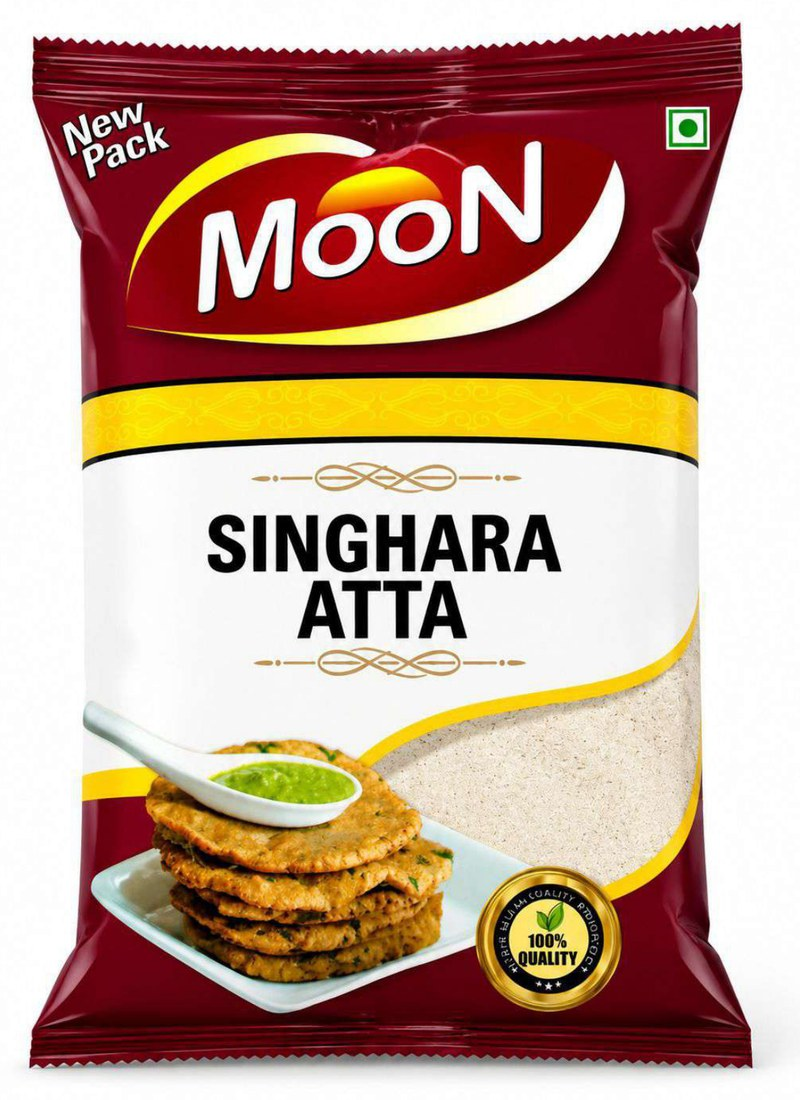
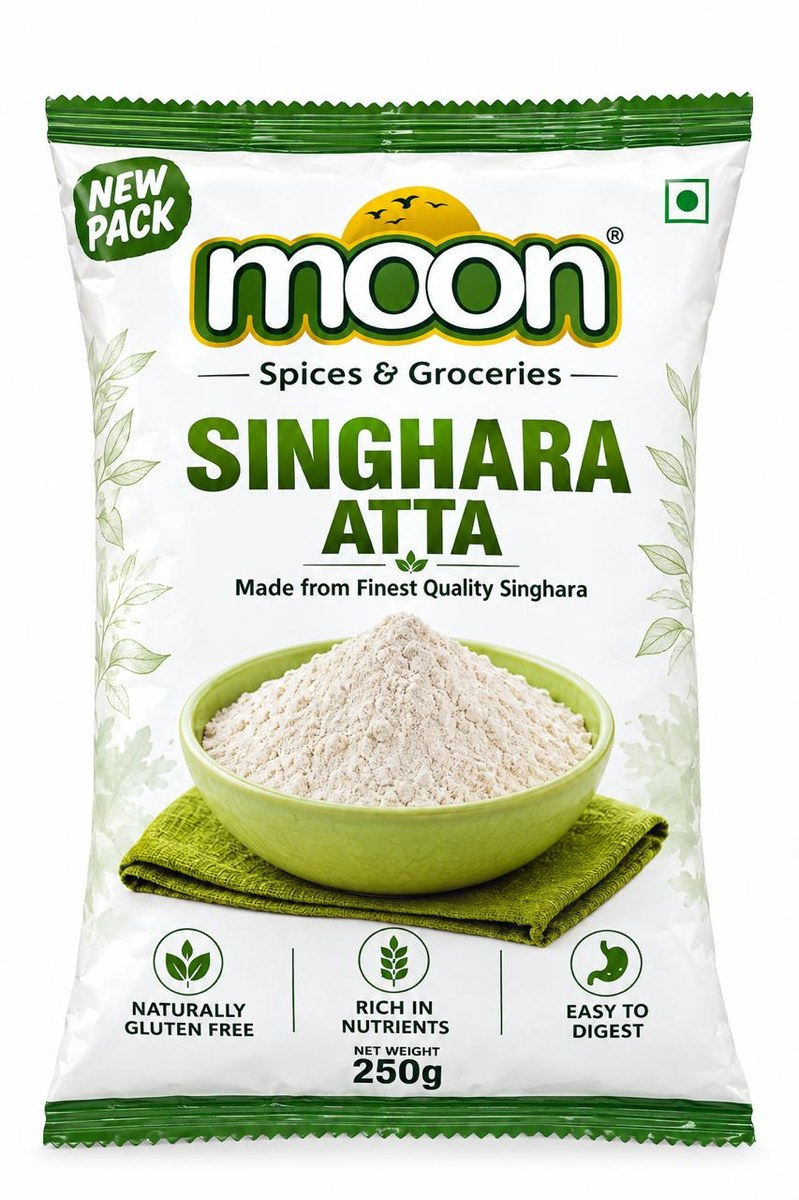
Update Singhara Atta packaging/price, add Dry Figs
- Singhara Atta: replaced with the new pack photo, price updated to
  the real ₹100 (was ₹200).
- Dry Figs: new product, 250g, ₹350, using its real pack photo.

Claude-Session: https://claude.ai/code/session_01VhHhG2872rT9kx7LUMEfYW

diff --git a/moon-shop-preview/src/data.ts b/moon-shop-preview/src/data.ts
@@ -76,6 +76,22 @@ export const PRODUCTS: Product[] = [
     ],
   },
   {
+    id: 'dry-figs',
+    name: 'Dry Figs',
+    category: 'Dry Fruits',
+    description:
+      "Our Dry Figs (Anjeer) are naturally sun-dried to bring out their rich, honeyed sweetness and soft, chewy texture. A wholesome everyday snack, perfect for gifting or adding to your daily diet.",
+    price: 350,
+    weightOptions: ['250g'],
+    image: '/products/dry-figs.jpg',
+    additionalInfo: [
+      'Naturally sweet — no added sugar',
+      'Good source of dietary fibre',
+      'Rich in calcium & potassium',
+      '100% natural, sun-dried',
+    ],
+  },
+  {
     id: 'moon-dry-dates',
     name: 'Moon Dry Fruits Dry Dates',
     category: 'Dry Dates',
@@ -345,7 +361,7 @@ export const PRODUCTS: Product[] = [
     category: 'Speciality Flours',
     description:
       "Our Singhara Atta (water chestnut flour) is ground fresh for a light, delicate texture — a traditional favourite for vrat/fasting meals, giving puris and pakoras their signature crisp bite.",
-    price: 200,
+    price: 100,
     weightOptions: ['250g'],
     image: '/products/singhara-atta.jpg',
     additionalInfo: [
